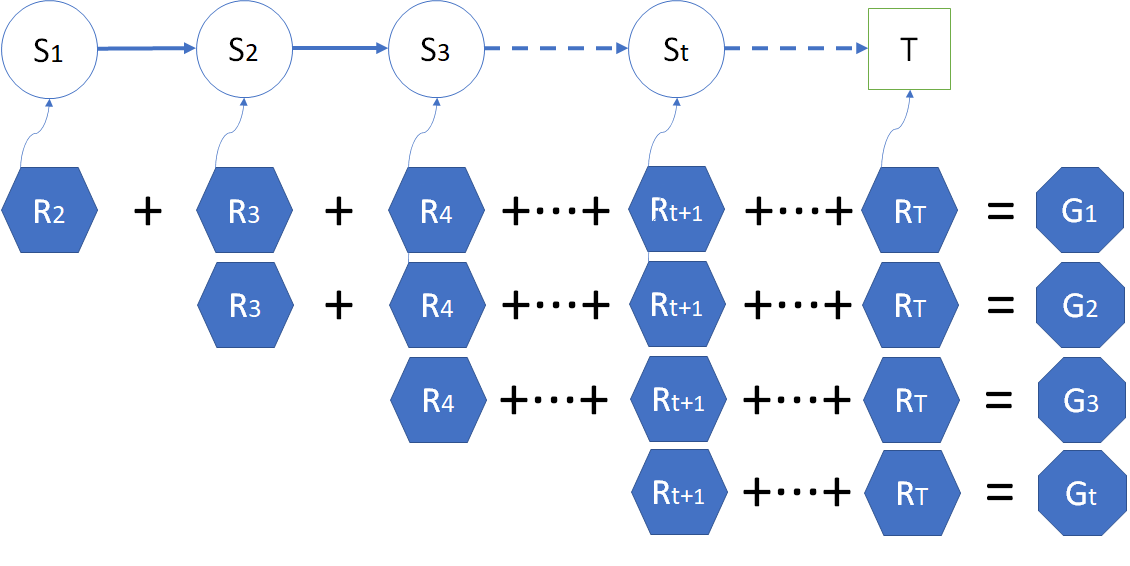
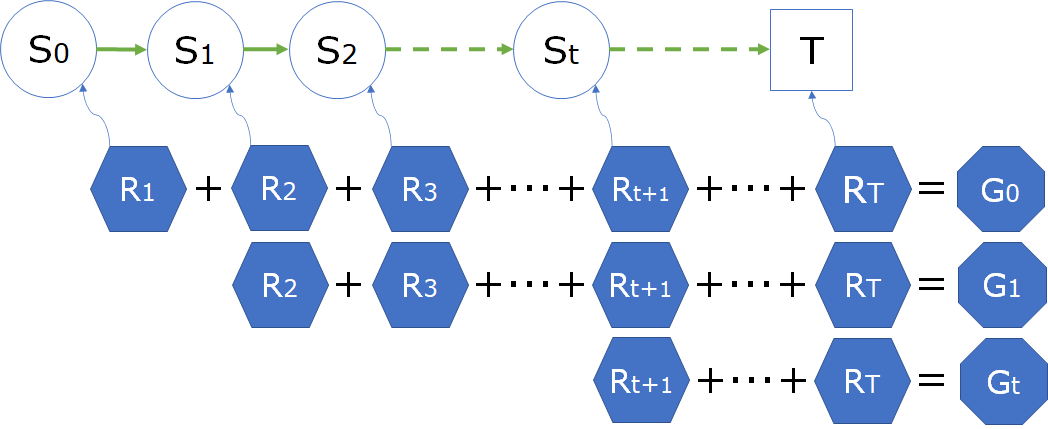
iuou

diff --git a/基础教程/A7-强化学习/100-蒙特卡洛方法/src/MC_102_SafetyDrive_DataModel.py b/基础教程/A7-强化学习/100-蒙特卡洛方法/src/MC_102_SafetyDrive_DataModel.py
@@ -10,7 +10,7 @@ class States(Enum):
     DownSpeed = 3       # 闹市减速
     ExceedSpeed = 4     # 超速行驶
     RedLight = 5        # 路口闯灯
-    LowSpeed = 6        # 小区减速
+    LowSpeed = 6        # 小区慢行
     MobilePhone = 7     # 拨打手机
     Crash = 8           # 发生事故
     Goal = 9            # 安全抵达
@@ -18,18 +18,18 @@ class States(Enum):
 
 # 状态转移概率
 P = np.array(
-    [
-        [0.0, 0.9, 0.0, 0.0, 0.1, 0.0, 0.0, 0.0, 0.0, 0.0, 0.0],
-        [0.0, 0.0, 0.2, 0.1, 0.1, 0.1, 0.3, 0.1, 0.0, 0.1, 0.0],
-        [0.0, 1.0, 0.0, 0.0, 0.0, 0.0, 0.0, 0.0, 0.0, 0.0, 0.0],
-        [0.0, 0.7, 0.3, 0.0, 0.0, 0.0, 0.0, 0.0, 0.0, 0.0, 0.0],
-        [0.0, 0.2, 0.0, 0.0, 0.0, 0.3, 0.0, 0.0, 0.5, 0.0, 0.0],
-        [0.0, 0.1, 0.0, 0.0, 0.0, 0.0, 0.0, 0.0, 0.9, 0.0, 0.0],
-        [0.0, 0.0, 0.0, 0.0, 0.0, 0.0, 0.0, 0.0, 0.0, 1.0, 0.0],
-        [0.0, 0.6, 0.0, 0.0, 0.0, 0.0, 0.0, 0.0, 0.4, 0.0, 0.0],
-        [0.0, 0.0, 0.0, 0.0, 0.0, 0.0, 0.0, 0.0, 0.0, 0.0, 1.0],
-        [0.0, 0.0, 0.0, 0.0, 0.0, 0.0, 0.0, 0.0, 0.0, 0.0, 1.0],
-        [0.0, 0.0, 0.0, 0.0, 0.0, 0.0, 0.0, 0.0, 0.0, 0.0, 1.0]
+    [   #S    N    P    D    E    R    L    M    C    G    E
+        [0.0, 0.9, 0.0, 0.0, 0.1, 0.0, 0.0, 0.0, 0.0, 0.0, 0.0], # S
+        [0.0, 0.0, 0.2, 0.1, 0.1, 0.1, 0.3, 0.1, 0.0, 0.1, 0.0], # N
+        [0.0, 1.0, 0.0, 0.0, 0.0, 0.0, 0.0, 0.0, 0.0, 0.0, 0.0], # P
+        [0.0, 0.7, 0.3, 0.0, 0.0, 0.0, 0.0, 0.0, 0.0, 0.0, 0.0], # D
+        [0.0, 0.2, 0.0, 0.0, 0.0, 0.3, 0.0, 0.0, 0.5, 0.0, 0.0], # E
+        [0.0, 0.1, 0.0, 0.0, 0.0, 0.0, 0.0, 0.0, 0.9, 0.0, 0.0], # R
+        [0.0, 0.0, 0.0, 0.0, 0.0, 0.0, 0.0, 0.0, 0.0, 1.0, 0.0], # L
+        [0.0, 0.6, 0.0, 0.0, 0.0, 0.0, 0.0, 0.0, 0.4, 0.0, 0.0], # M
+        [0.0, 0.0, 0.0, 0.0, 0.0, 0.0, 0.0, 0.0, 0.0, 0.0, 1.0], # C
+        [0.0, 0.0, 0.0, 0.0, 0.0, 0.0, 0.0, 0.0, 0.0, 0.0, 1.0], # G
+        [0.0, 0.0, 0.0, 0.0, 0.0, 0.0, 0.0, 0.0, 0.0, 0.0, 1.0]  # E
     ]
 )
 
@@ -42,7 +42,7 @@ class DataModel(object):
         self.P = P                          # 状态转移矩阵
         self.R = R                          # 奖励
         self.S = States                     # 状态集
-        self.num_states = len(self.S)       # 状态数量
+        self.nS = len(self.S)               # 状态数量
         self.end_states = [self.S.End]      # 终止状态集
         self.V_ground_truth = Matrix(self, 1)
     
@@ -56,18 +56,14 @@ class DataModel(object):
     def get_reward(self, s):
         return self.R[s.value]
 
-    def random_select_state(self):
-        s = np.random.choice(self.num_states)
-        return States(s)
-
     # 根据转移概率前进一步，返回（下一个状态、即时奖励、是否为终止）
-    def step(self, curr_s):
-        next_s = np.random.choice(self.S, p=self.P[curr_s.value])
-        return next_s, self.get_reward(next_s), self.is_end(next_s)
+    def step(self, s):
+        next_s = np.random.choice(self.S, p=self.P[s.value])
+        return next_s, self.get_reward(s), self.is_end(next_s)
+
 
 def Matrix(dataModel, gamma):
-    num_state = dataModel.P.shape[0]
-    I = np.eye(dataModel.num_states) * (1+1e-7)
+    I = np.eye(dataModel.nS) * (1+1e-7)
     #I = np.eye(dataModel.num_states)
     tmp1 = I - gamma * dataModel.P
     tmp2 = np.linalg.inv(tmp1)

diff --git a/基础教程/A7-强化学习/100-蒙特卡洛方法/src/Algo_Sampling.py b/基础教程/A7-强化学习/100-蒙特卡洛方法/src/Algo_Sampling.py
@@ -1,0 +1,29 @@
+import numpy as np
+import tqdm
+import math
+
+# 多次采样获得回报 G 的数学期望，即状态价值函数 v(start_state)
+def Sampling(dataModel, start_state, episodes, gamma):
+    G_sum = 0  # 定义最终的返回值，G 的平均数
+    # 循环多幕
+    for episode in tqdm.trange(episodes):
+        s = start_state # 把给定的起始状态作为当前状态
+        G = 0           # 设置本幕的初始值 G=0
+        t = 0           # 步数计数器
+        is_end = False
+        while not is_end:
+            s_next, reward, is_end = dataModel.step(s)
+            G += math.pow(gamma, t) * reward
+            t += 1
+            s = s_next
+        # end while
+        G_sum += G # 先暂时不计算平均值，而是简单地累加
+    # end for
+    v = G_sum / episodes   # 最后再一次性计算平均值，避免增加计算开销
+    return v
+
+def print_V(dataModel, V):
+    vv = np.around(V,2)
+    print("状态价值函数计算结果(数组) :", vv)
+    for s in dataModel.S:
+        print(str.format("{0}:\t{1}", s.name, vv[s.value]))

diff --git a/基础教程/A7-强化学习/draft/TBD/test_gym.py b/基础教程/A7-强化学习/draft/TBD/test_gym.py
@@ -1,11 +1,12 @@
 import gym
 #env = gym.make("LunarLander-v2")
-env = gym.make("CartPole-v1")
+#env = gym.make("CartPole-v1")
+env = gym.make("FrozenLake-v1")
 env.action_space.seed(42)
 
 observation, info = env.reset(seed=42, return_info=True)
 
-for _ in range(1000):
+for _ in range(100):
     observation, reward, done, info = env.step(env.action_space.sample())
     env.render()
 

diff --git a/基础教程/A7-强化学习/100-蒙特卡洛方法/2-首次访问型与每次访问型MC.md b/基础教程/A7-强化学习/100-蒙特卡洛方法/2-首次访问型与每次访问型MC.md
@@ -3,66 +3,96 @@
 
 ### 10.2.1 
 
-在 6.3 节中，我们根据回报 $G$ 的定义
+在 6.3 节中，我们根据回报 $G$ 的定义：
 
 $$
 G_t = R_{t+1}+\gamma R_{t+2}+\gamma^2 R_{t+3}+ \cdots +\gamma^{T-t-1} R_{T}
+\tag{10.2.1}
 $$
 
-以及价值函数 $V$ 的定义
+以及价值函数 $V$ 的定义：
 
 $$
-V_t(s) = \mathbb E [G_t | S_t = s]
+v_t(s) = \mathbb E [G_t | S_t = s]
+\tag{10.2.2}
 $$
 
 已经使用了最朴素的蒙特卡洛采样法初步计算出了安全驾驶问题的各个状态的价值函数。回忆其过程如下：
 
-1. 使用蒙特卡洛采样，每次采样都需要指定一个初始状态，然后在幕内循环，直到终止状态。
-2. 然后根据式 1 开始“从头”计算这个初始状态的回报 $G$ 值。
-3. 进行下一次采样，再计算 $G$ 值。
-4. 最后求平均（数学期望）得到 $V$。
+1. 使用蒙特卡洛采样，每次采样都需要指定一个初始状态 $s_0$，然后开始在幕内循环；
+2. 得到一个 $R_t$ 后，计算 $G = G + \gamma^{t-1}R_t$，直到幕内循环结束；
+3. 进行下一次采样，再计算 $G$ 值；
+4. 最后求 $G$ 的平均（数学期望）得到 $v(s_0)$，即式（10.2.2）。
+
+这种方法的特点是：
+1. 稳定；
+2. 省空间，不需要记录中间状态，来了一个 $R_t$ 后立刻计算，然后扔掉，只保留 $G$ 值；
+3. 随着幕数的增加，会更逼近真实值；
+4. 遍历状态并在不受控的情况下重复多次，速度慢；
+5. 浪费了中间的采样状态。
 
 聪明的读者可能会发现一个问题：如果不“从头”开始，而是从第二个、第三个状态开始计算，是不是就能在一次采样中就可以得到很多状态的 G 值呢？
 
 <center>
-<img src="./img/MC-1.png">
+<img src='./img/MC-1.png'>
 
-图 1 
+图 10.2.1 
 </center>
 
-如图 1 所示，从 $S_1$ 开始一幕的采样，到 $S_T$ 为止结束，得到 $R$ 的序列后：
-- 固然可以从 $R_2$ 开始计算出 $G_1$。
-- 但是如果从 $R_3$ 开始，不就能计算出 $G_2$ 了吗？
-- 同理，还可以计算出这一采样序列中的任意的 $G_t$ 出来。
 
-这样，利用一次采样结果可以计算出很多状态的 $G$ 值，会大幅提高算法的效率。
+如图 10.2.1 所示，从 $S_0$ 开始一幕的采样，到 $T$ 为止结束，得到 $R_1,\cdots,R_T$ 的序列后：
+- 第一行：固然可以从 $R_1$ 开始计算出 $G_0$。
+- 第二行：但是如果从 $R_2$ 开始，不就能计算出 $G_1$ 了吗？
+- 第三行：同理，还可以计算出这一采样序列中的任意的 $G_t$ 出来。
+
+这样的话利用一次采样结果可以计算出很多状态的 $G$ 值，会大幅提高算法的效率。
 
 
 ### 算法描述
+
+【算法 10.2.1】
 
 下面的伪代码中，$\leftarrow$ 表示赋值，$\Leftarrow$ 表示追加列表。
 
 ---
 
-输入：起始状态$S,Episodes,\gamma$
-初始化：$G_{value}[S] \leftarrow 0, G_{count}[S] \leftarrow 0$
-多幕 $Episodes$ 循环：
-　　列表 $T = [\ ] $ 用于存储序列数据 $(S,R)$
-　　获得状态 $S$ 的奖励值 $R$
-　　$T \Leftarrow (S,R)$
+输入：起始状态$s,\gamma$, Episodes
+初始化：$G(s) \leftarrow 0, N(S) \leftarrow 0$
+多幕 Episodes 循环：
+　　列表 $T = [\ ] $ 用于存储序列数据 $(s,r)$
 　　幕内循环直到终止状态：
-　　　　从 $S$ 根据状态转移概率得到 $S',R'$ 以及终止标志
-　　　　$T \Leftarrow (S',R')$
-　　　　$S \leftarrow S'$
+　　　　从 $s$ 根据环境模型得到 $s',r$ 以及是否终止的标志
+　　　　$T \Leftarrow (s',r)$
+　　　　$s \leftarrow s'$
+　　　　$G_t \leftarrow 0$
 　　对 $T$ 从后向前遍历, $t=\tau-1,\tau-2,...,0$
-　　　　从 $T$ 中取出 $S_t,R_t$
-　　　　$G \leftarrow \gamma G+R_t$
-　　　　$G_{value}[S_t] \leftarrow G_{value}[S_t]+G$
-　　　　$G_{count}[S_t] \leftarrow G_{value}[S_t]+1$
-$V[S] \leftarrow G_{value}[S] / G_{count}[S]$
-输出：$V[S]$
+　　　　从 $T$ 中取出 $s_t,r_t$
+　　　　$G_t \leftarrow \gamma G_t+r_t$
+　　　　$G(s_t) \leftarrow G(s_t)+G_t$
+　　　　$N(s_t) \leftarrow N(s_t)+1$
+$V(S) \leftarrow G(S) / N(S)$
+输出：$V(S)$
 
 ---
+
+----
+
+输入：起始状态 $s$, Episodes, $\gamma$
+初始化：$G_{sum} \leftarrow 0$  # 累计多幕的G值以便求平均
+多幕 Episodes 循环：
+　　当前幕的 $G \leftarrow 0$
+　　计数器 $t \leftarrow 0$
+　　幕内循环直到终止状态：
+　　　　从 $S$ 根据状态转移概率得到 $s',r$ 以及是否终止的标志
+　　　　$G \leftarrow G + \gamma^t r$
+　　　　$t \leftarrow t+1$
+　　　　$s \leftarrow s'$
+　　$G_{sum} \leftarrow G_{sum}+G$
+$v(s) \leftarrow G_{sum} /$ Episodes
+输出：$v(s)$
+
+---
+
 
 ### 算法说明
 

diff --git a/基础教程/A7-强化学习/100-蒙特卡洛方法/1-蒙特卡洛方法.md b/基础教程/A7-强化学习/100-蒙特卡洛方法/1-蒙特卡洛方法.md
@@ -15,21 +15,21 @@
 
 联合国教科文组织在2019年11月26日第四十届大会批准宣布，3月14日为“国际数学日（International Day of Mathematics,简称IDM）”。因为“3.14”是圆周率数值最接近的数字，所以这一天也叫圆周率日（$\pi$ day）。
 
-- 公元前250年
+- 公元前 250 年
 
     希腊数学家阿基米德通过割圆术计算圆周率，阿基米德进行了96边形的割圆之后，将圆周率推到了小数点后两位3.14。
 
-- 公元265年
+- 公元 265 年
 
     中国的数学家刘徽用割圆术的方法，通过正3072边形计算出π的数值为3.1416，艰难地把圆周率推到了小数点后四位。
 
-- 200年后
+- 公元 480 年前后
 
     祖冲之继续使用割圆术计算12,288形的边长，将圆周率推到了小数点后六位，可惜的是，由于文献的失传，祖冲之的计算方法我们现在已经不得而知了。
 
-- 800年后
+- 十五世纪
 
-    随着近代数学的发展，数学家韦达、罗门、科伊伦、司乃耳、格林伯格通过割圆术陆续将圆周率推到了小数点后39位，这个精度是什么概念呢，如果我们通过小数点后39位的圆周率计算一个一个可观察宇宙大小的圆，计算的误差仅仅只有一个氢原子大小。
+    随着近代数学的发展，数学家韦达、罗门、科伊伦、司乃耳、格林伯格通过割圆术陆续将圆周率推到了小数点后 39 位，这个精度是什么概念呢，如果我们通过小数点后 39 位的圆周率计算一个一个可观察宇宙大小的圆，计算的误差仅仅只有一个氢原子大小。
 
 - 十六世纪到十七世纪
 

diff --git a/基础教程/A7-强化学习/50-学生学习问题 - 从普通过程到奖励过程/2-奖励和回报.md b/基础教程/A7-强化学习/50-学生学习问题 - 从普通过程到奖励过程/2-奖励和回报.md
@@ -144,11 +144,11 @@ $$
 图 5.2.4 奖励与回报
 </center>
 
-图 5.2.4 中展示了 $G_0，G_1$ 和 $G_t$ 的计算方式，表示了在同一个马尔可夫过程中的状态 $S_0，S_1$ 和 $S_t$ 的回报，同时也告诉读者，在一个完整的序列中，我们可以从任意时刻 $t$ 开始计算 $S_t$ 状态的回报，而忽略前面的数据。
+图 5.2.4 中展示了 $G_0$ 的计算方式，表示了在一个马尔可夫过程中的状态 $S_0$ 的回报。
 
 图 5.2.4 实际上还是状态奖励定义方式，但是它很“巧妙”地把 $R_{t+1}$ 引出的箭头指向了 $S_t$ 的右侧靠近出口处，预示着是对未来的一种预期。这样的话，在 $S_0$ 处的奖励 $R_1$，实际上已经确定了能够到达 $S_2$。
 
-如果从图 5.2.4 中删掉 $S_0$，从 $S_1$ 为起点出发的话，则 $R_1$ 就不会存在，必须从 $R_2$ 开始，就能计算出 $G_1$ 来。
+如果从图 5.2.4 中删掉 $S_0$，从 $S_1$ 为起点出发的话，则 $R_1$ 就不会存在，从 $R_2$ 开始，就能计算出 $G_1$ 来。
 
 有的读者可能会有疑问：我目前处于 $S_t$ 的位置，根本得不到将来的状态和奖励，我如何计算总的回报呢？
 
